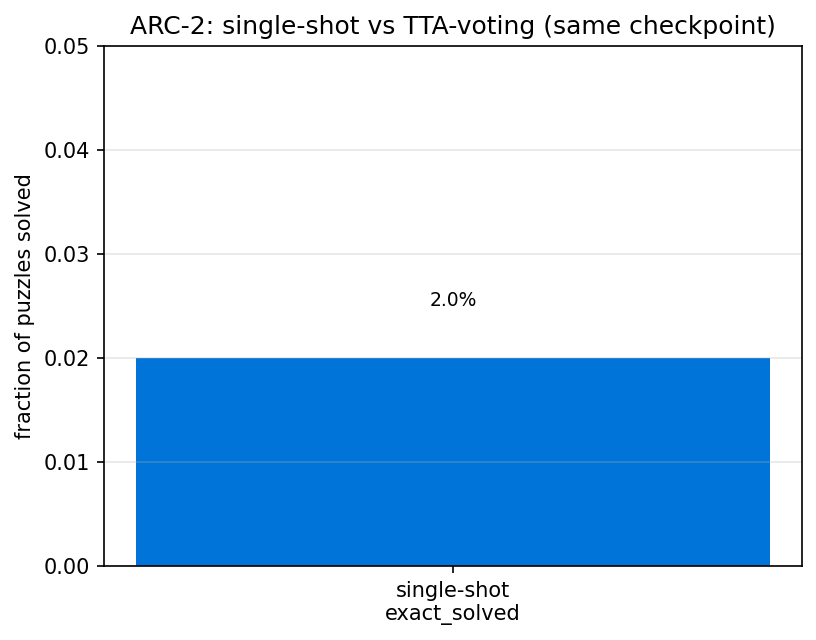
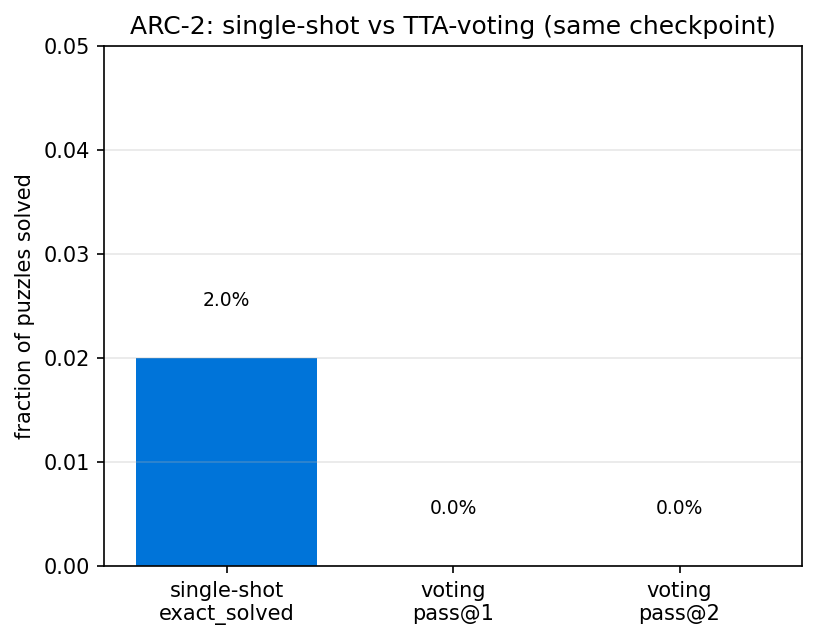
Fix voting loader (drop intermediate_preds) + add ARC-2 voting result
evaluate() always records an "intermediate_preds" tensor of shape
[steps, N, seq] alongside the per-example tensors (intermediate_preds_step
is always requested), and the voting loader applied the per-example
PAD mask to every key, crashing on that [16, 165408, 900] tensor. Keep
only the keys voting uses before masking; this also cuts peak RAM.

Voting result over the full ~165k augmented eval set (reuses the 23.8 GB
prediction dump): pass@1..1000 = 0% over 120 puzzles. Consistent with the
frozen-core ceiling -- per-cell colour acc ~0.90 but shape_correct 0.0, so
no full-grid exact match is possible (0.9^(H*W) -> ~0), hence voting cannot
recover exact answers. Authors report ~40.3% (pass@2) from the jointly
trained original. Adds fig_arc_voting_passk + refreshed singleshot_vs_voting.

diff --git a/scripts/arc/voting_eval_arc.py b/scripts/arc/voting_eval_arc.py
@@ -59,10 +59,16 @@ def load_identifiers_and_preds(dataset_path: str, checkpoint_path: str):
             f"No prediction dump found at {checkpoint_path}_all_preds.* — run evaluate.py first "
             f"(see this file's docstring)."
         )
+    # evaluate() always records an "intermediate_preds" tensor of shape
+    # [steps, N, seq] (a leading ACT-step axis) alongside the per-example tensors,
+    # because "intermediate_preds_step" is always requested. Voting never uses it
+    # and its leading dim breaks the per-example mask, so keep only what we need.
+    NEEDED = ("puzzle_identifiers", "inputs", "labels", "logits", "q_halt_logits")
     for filename in files:
         preds = torch.load(filename, map_location="cpu")
         for k, v in preds.items():
-            all_preds.setdefault(k, []).append(v)
+            if k in NEEDED:
+                all_preds.setdefault(k, []).append(v)
         del preds
     all_preds = {k: torch.cat(v, dim=0) for k, v in all_preds.items()}
 